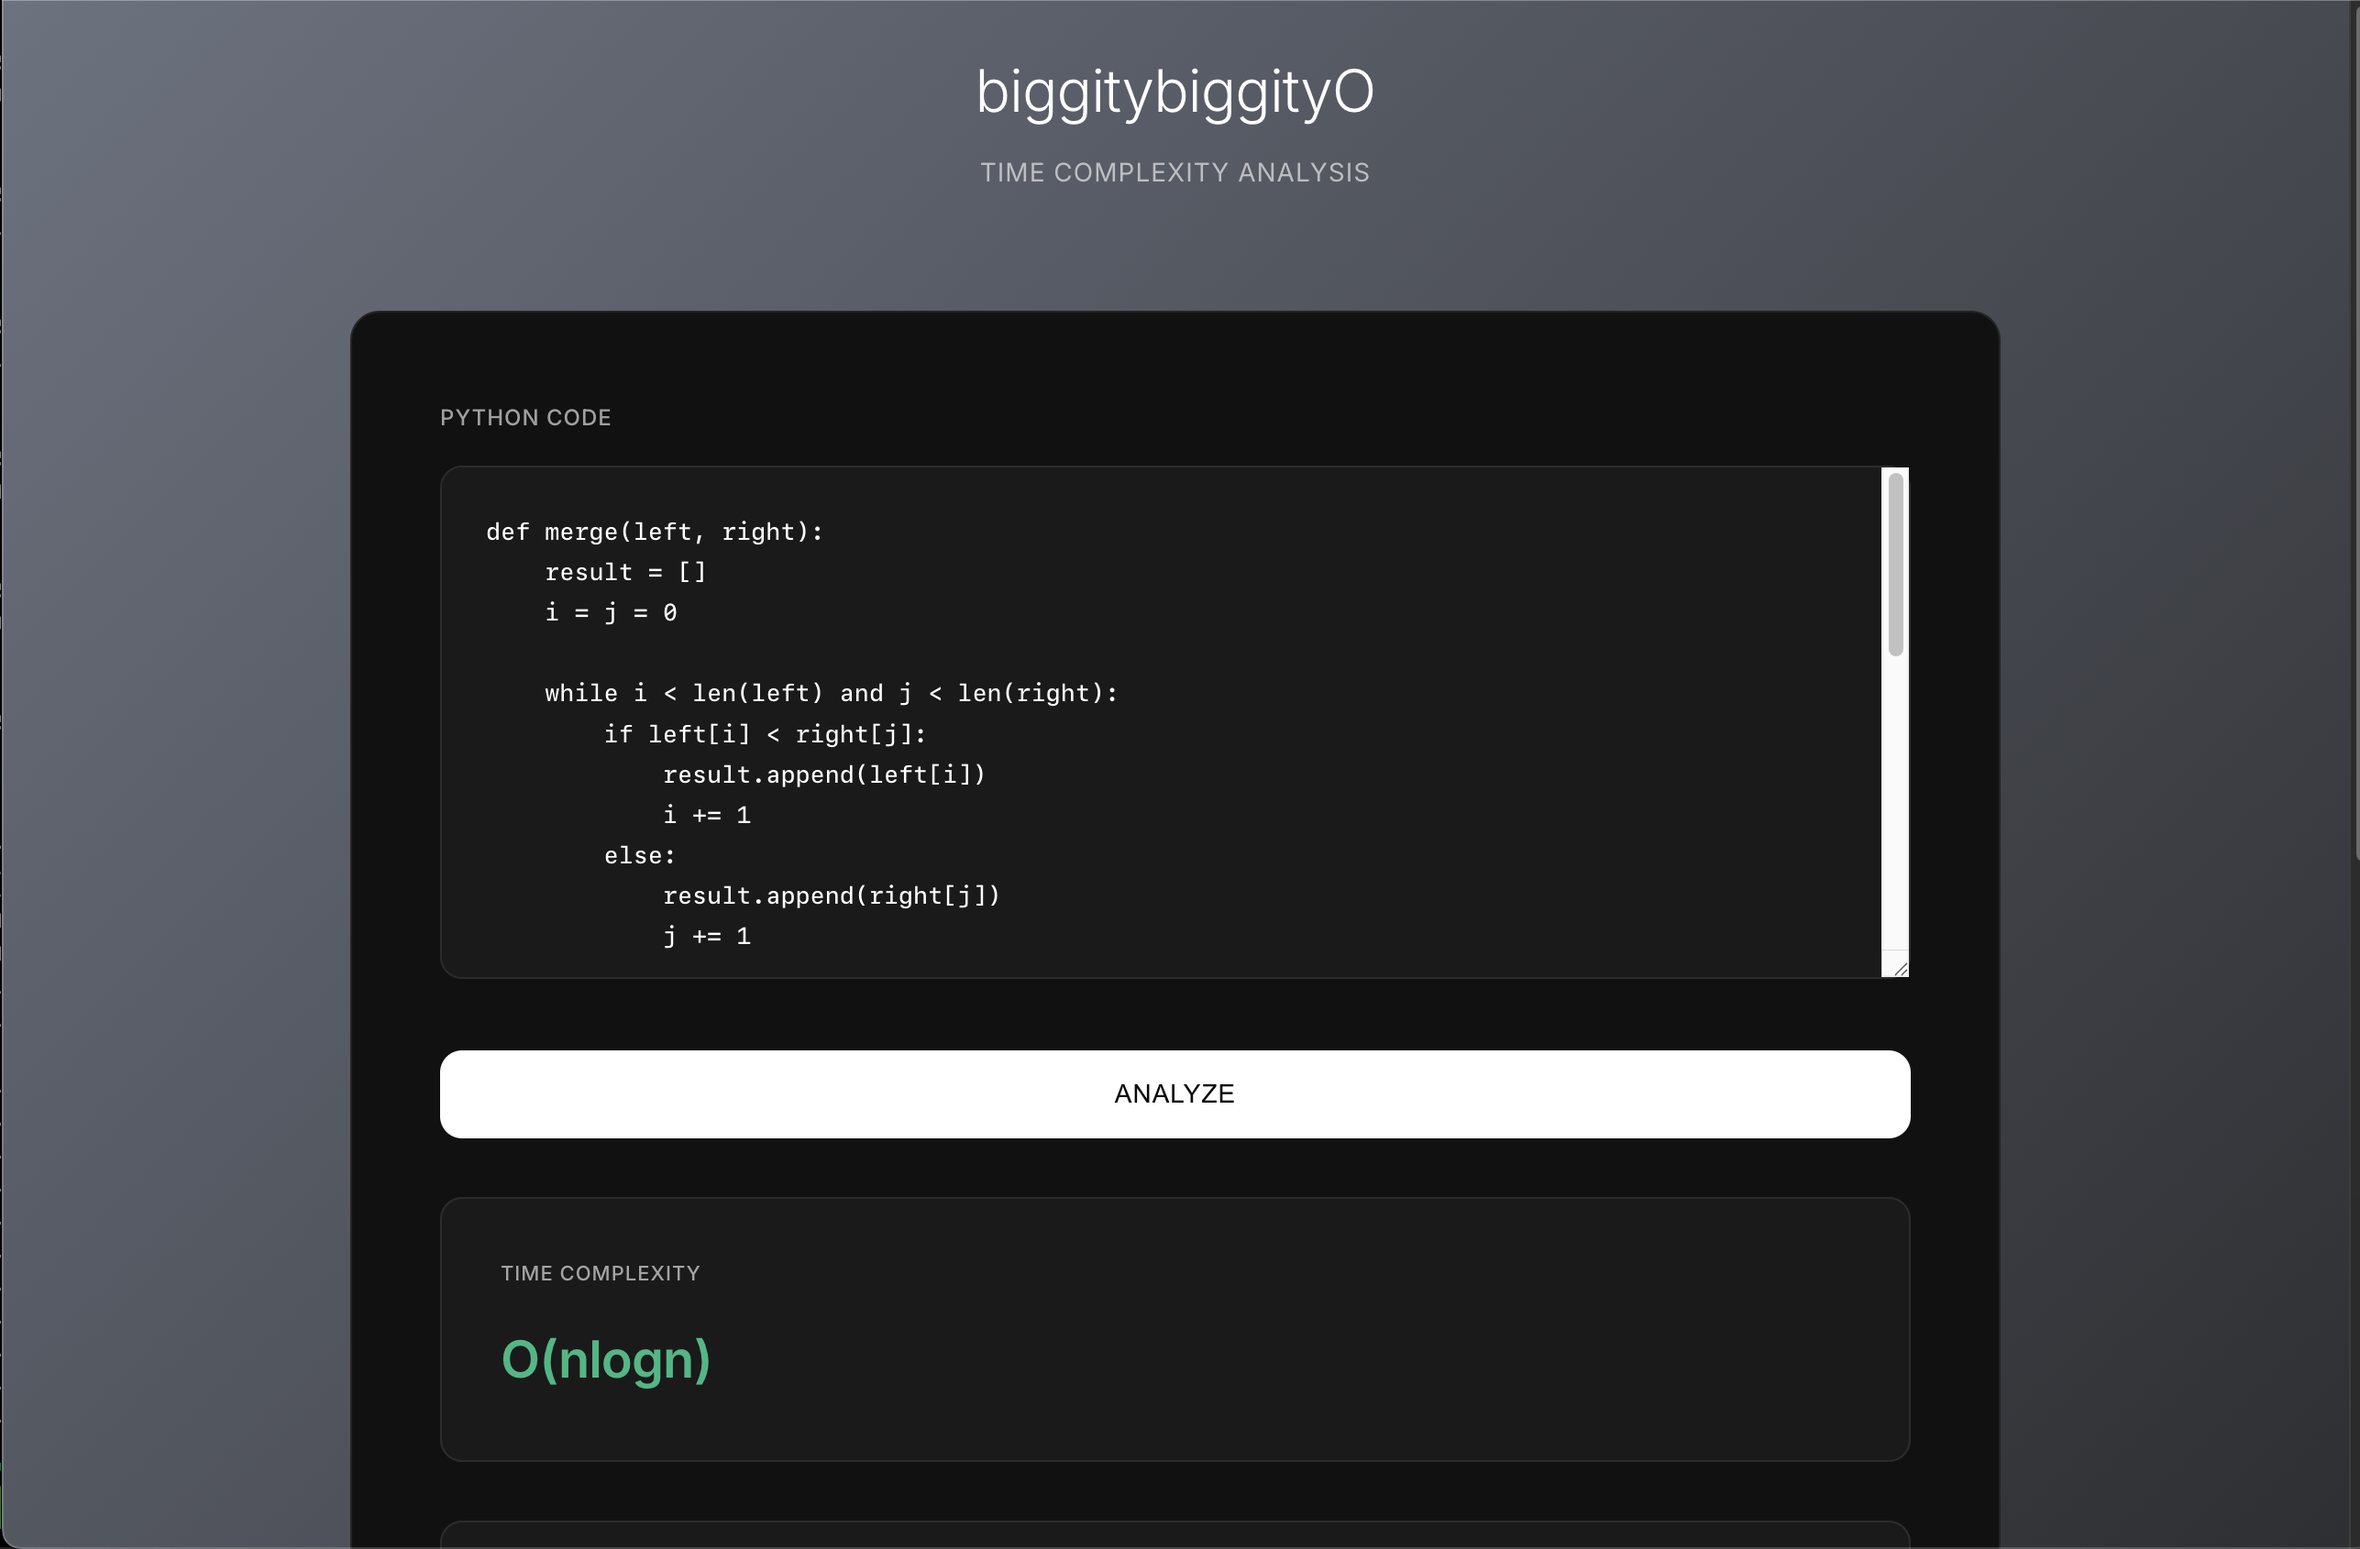
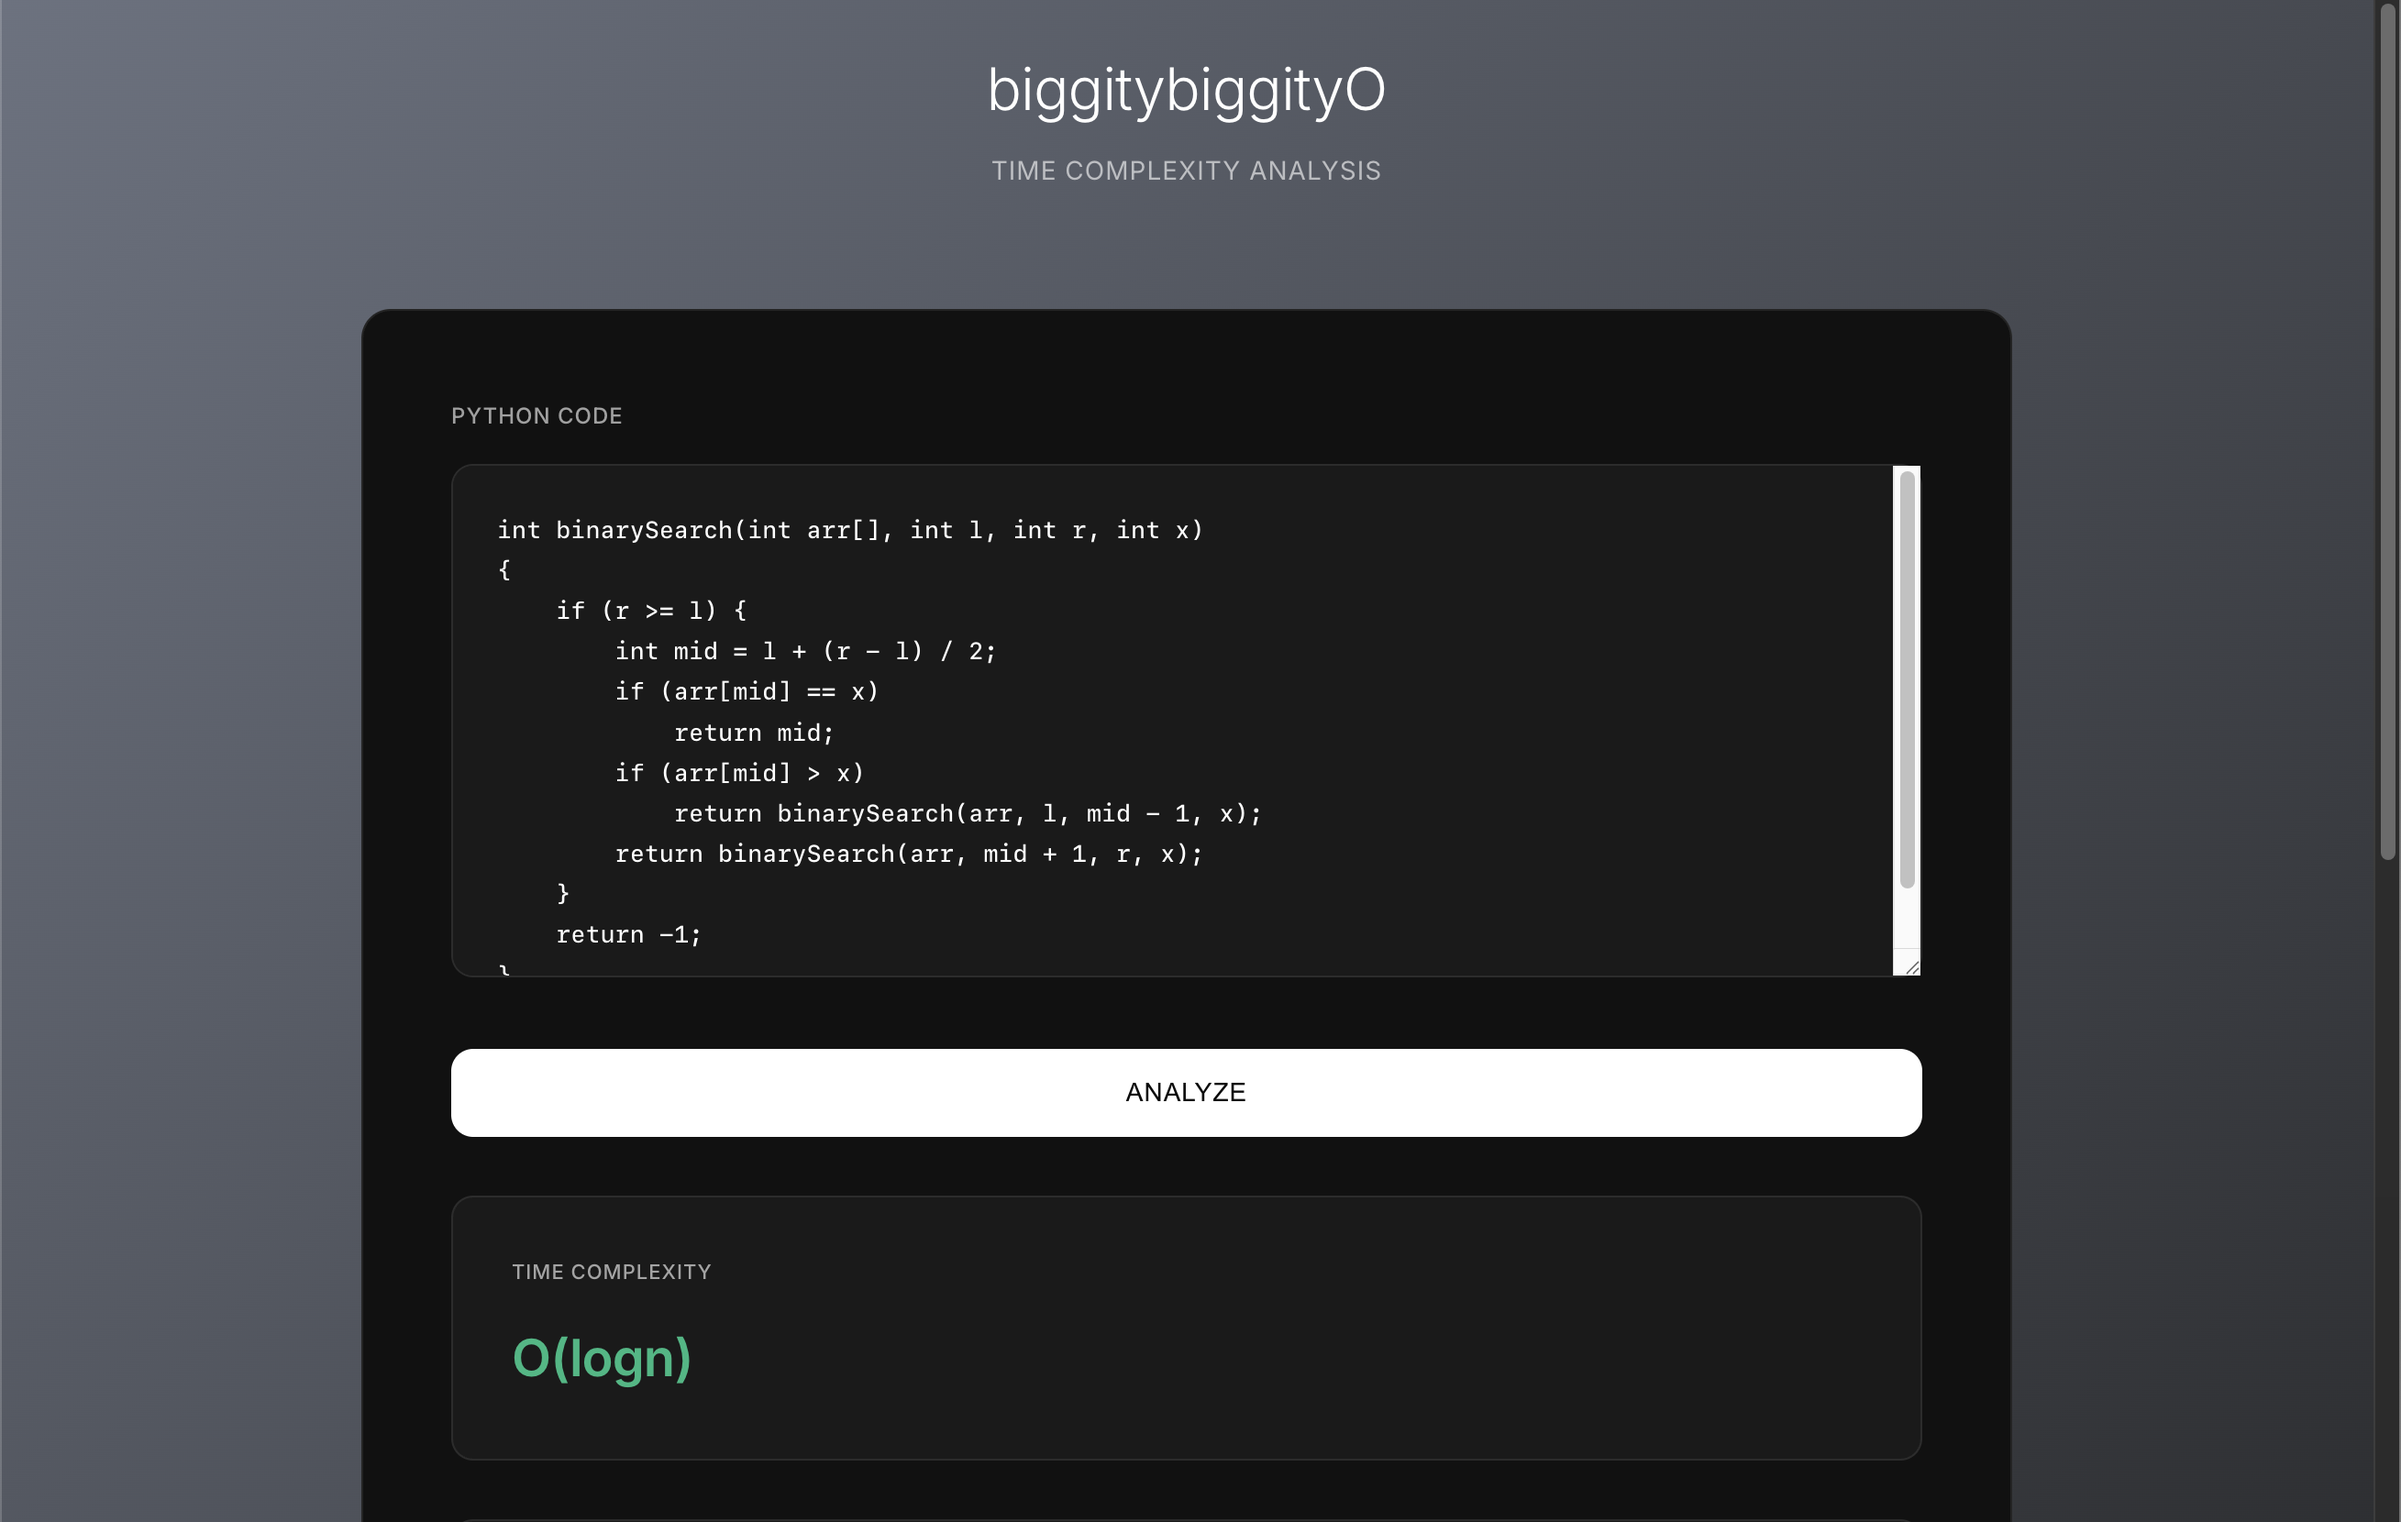
update readme

diff --git a/README.md b/README.md
@@ -1,69 +1,67 @@
-# biggitybiggityO - End-to-end implementation of code big(O) time complexity classifier
+# 🚀 biggitybiggityO — End-to-End Big-O Time Complexity Classifier
 <p align="center">
   <img src="images/app1.png" alt="Big O Time complexity">
 </p>
 <p align="center">
   <img src="images/app2.png" alt="Big O Time complexity">
 </p>
-Big O notation is a mathematical notation that describes the limiting behavior of a function when the argument tends towards a particular value or infinity. <br>
-Or in simple terms, Big O is a **way to measure algorithm's performance**.
 
 
-<p align="center">
-  <img src="images/bigO.jpg" alt="Big O Time complexity">
-</p>
+## 📘 Overview
+This repository delivers a complete pipeline for building a **code time-complexity classifier**:
 
-## What is this repository
-This repository is an end-to-end implementation of code big O time complexity classifier. 
-<br>At first, the data was collected, which consists of both, pre-collected data, such as [CodeComplex](https://arxiv.org/abs/2401.08719), as well as scraped data from other sources (listed below).
+- Collection of real + synthetic complexity-labeled code
+- Additional scraping from LeetCode & NeetCode
+- Preprocessing, cleaning, merging, and organization of datasets
+- Evaluation of multiple pretrained coding models
+- Hyperparameter search and QLoRA finetuning
+- Model testing & experiment tracking
+- REST API + web UI for real-time predictions
+- Reproducible environment via Docker
 
-Then, multiple pretrained models were run through a quick evaluation to figure out which models would be the best candidates for our task in terms of performance and size.
+The final model is built on **deepseek-coder-1.3b-base** for its strong performance-to-size ratio.
 
-<p align="center">
-  <img src="images/base_models_perf.png" alt="Big O Time complexity">
-</p>
-
-Then, the candidates were further evaluated which led to 1 model we chose to go with for finetuning.
-
-The model I picked for finetuning was a model from deepseek-ai - deepseek-coder-1.3b-base for its high performance, and relatively small size.
-
-For finetuning I used [QLoRA](https://arxiv.org/abs/2305.14314).
-
-Before final finetuning hyperparameter search was performed to find the optimal values for hyperparameters, which maximize the F1-macro score.
-
-Note: currently supported classes are: O(1), O(logn), O(n), O(nlogn), O(n^2), O(n^3), np
-
-For the rest of the classes I couldn't find enough data for the system to achieve solid performance.
-
-## Project Outcomes
-By the end of this project, the following were achieved:
-- Research on the topic was performed, e.g. arxiv papers;
-- Data was collected
-- Search of additional data sources was performed and identified
-- Additional data was scraped
-- Datasets were cleaned, preprocessed and merged
-- Experiment tracking was set up
-- Model selection was performed
-- Hyperparameter search was carried out
-- Finetuning was executed
-- Testing was implemented
-- CI pipeline was created
-- API serving was implemented
-- Frontend for the web app was built
-- Dockerfile was created
-
-<p align="center">
+ <p align="center">
   <img src="images/frontier_performance.png" alt="Big O Time complexity">
 </p>
 
-## 🔑 Features  
-- 📥 **Scraping data** – automated collection of data  
-- 🧹 **Data Cleaning & Preprocessing** – ready-to-use datasets for research & analysis  
-- 📂 **Organized Dataset Storage** – structured for smooth EDA workflows  
-- 📈 **Finetuning** – QLoRA finetuning
-- 🎤 **API serving** – serving inference endpoint as an API 
-- **Frontend** - front end for the web app.
-- **Dockerfile** - ready-to-use for quickstart dockerfile.
+## 🎯 Supported Complexity Classes
+
+- `O(1)`
+- `O(log n)`
+- `O(n)`
+- `O(n log n)`
+- `O(n^2)`
+- `O(n^3)`
+- `np` (non-polynomial / not predictable)
+
+> Additional classes were excluded due to insufficient high-quality training samples.
+
+## 🏆 Project Outcomes
+
+By the end of this project, the following components were implemented:
+
+- Literature research on complexity-prediction models  
+- Multi-source dataset creation (real, scraped, synthetic)  
+- Preprocessing pipelines & dataset merging  
+- Model selection with structured evaluations  
+- Hyperparameter search targeting **F1-macro**  
+- QLoRA finetuning and testing  
+- MLflow experiment tracking  
+- REST API serving  
+- Frontend UI  
+- Full CI pipeline  
+- Dockerized deployment
+
+## 🔧 Features
+
+- 📥 **Automated data scraping**  
+- 🧹 **Cleaning & preprocessing pipelines**  
+- 📊 **Experiment tracking with MLflow**  
+- 🧠 **QLoRA-powered finetuning**  
+- 📝 **Time complexity classification API**  
+- 🌐 **Frontend for real-time predictions**  
+- 🐳 **Dockerfile for fast deployment**
 
 ## 📡 Data Sources  
 - [CodeComplex](https://arxiv.org/abs/2401.08719)  
@@ -74,7 +72,7 @@ By the end of this project, the following were achieved:
 Clone the repo and set up the environment:  
 
 ```bash
-# 1. Make sure you run this on a machine that has a Nvidia GPU and nvidia drivers installed and running
+# 1. Ensure NVIDIA GPU and drivers
 nvidia-smi
 
 # 2. Clone the repository
@@ -143,8 +141,9 @@ Contributions are welcome!
 
 This project provides one of the **most complete python code complexity datasets** available — combining multiple sources. It opens the door for:  
 
-- Exploratory Data Analysis on the relationship of code to time complexity
-- Machine learning model building 
-- Research
+- Research on time-complexity prediction
+- ML modeling for Big-O classification
+- Exploratory analysis of algorithmic patterns
+- Reproducible experimentation
 
 👉 If you find this project useful, don’t forget to **⭐ star this repository** to support its growth!  
